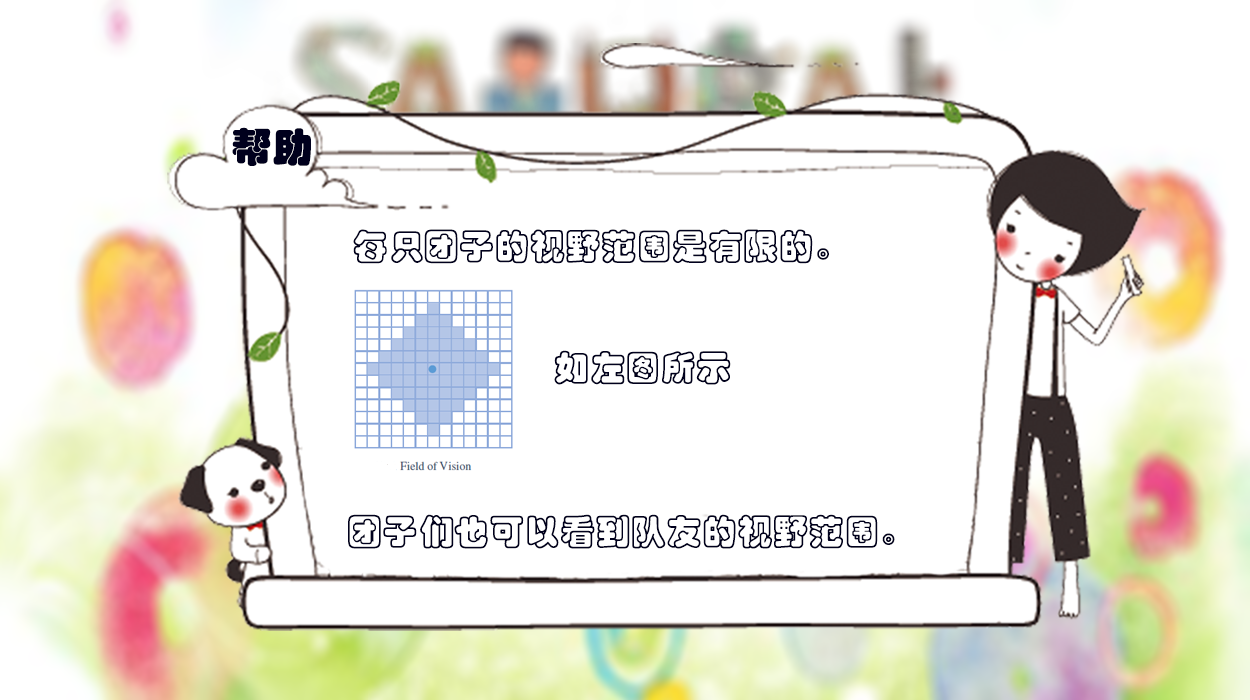
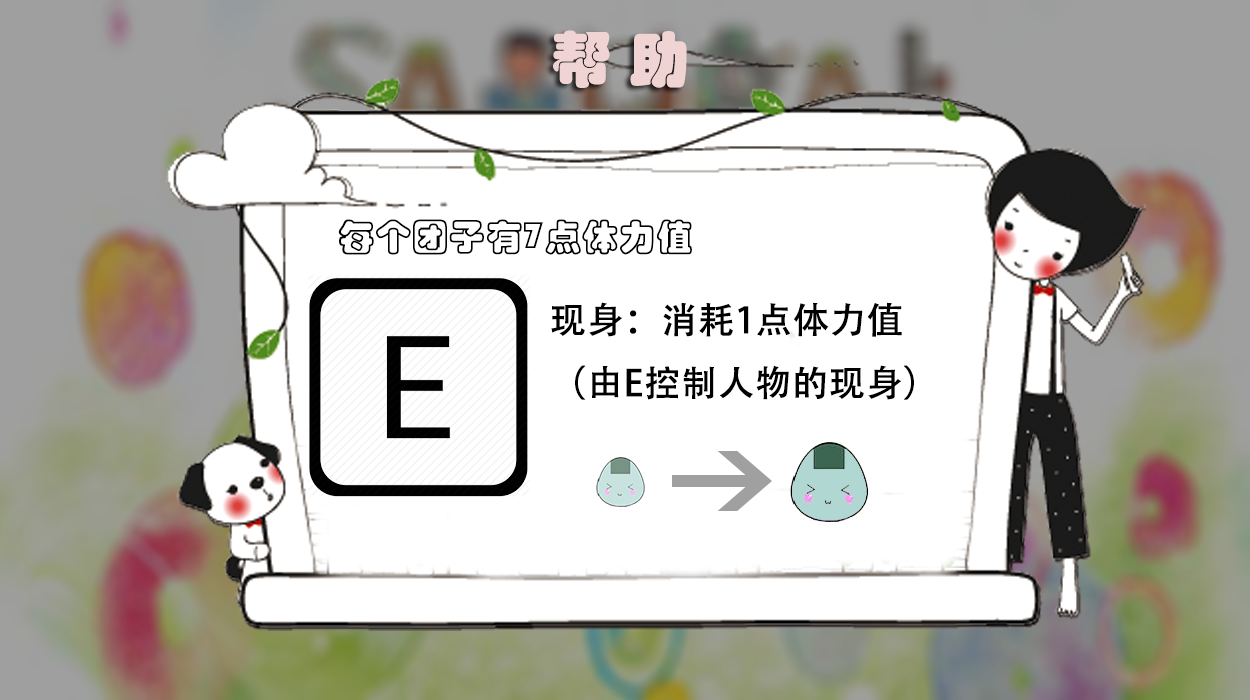
帮助界面和最后的winlosedraw
我刚刚看到帮助界面的代码还没有改就顺手改了一下

diff --git a/Samurai/src/team/csca/view/image/ImgBackground.java b/Samurai/src/team/csca/view/image/ImgBackground.java
@@ -33,6 +33,13 @@ public class ImgBackground {
 				new ImageIcon("Image/HelpPanel/backgroundhelp_page4.png").getImage(),
 				new ImageIcon("Image/HelpPanel/backgroundhelp_page5.png").getImage(),
 				new ImageIcon("Image/HelpPanel/backgroundhelp_page6.png").getImage(),
+				new ImageIcon("Image/HelpPanel/backgroundhelp_page7.png").getImage(),
+				new ImageIcon("Image/HelpPanel/backgroundhelp_page8.png").getImage(),
+				new ImageIcon("Image/HelpPanel/backgroundhelp_page9.png").getImage(),
+				new ImageIcon("Image/HelpPanel/backgroundhelp_page10.png").getImage(),
+				new ImageIcon("Image/HelpPanel/backgroundhelp_page11.png").getImage(),
+				new ImageIcon("Image/HelpPanel/backgroundhelp_page12.png").getImage(),
+				new ImageIcon("Image/HelpPanel/backgroundhelp_page13.png").getImage(),
 				};
 	}
 	

diff --git a/Samurai/src/team/csca/view/help/JPanelHelp.java b/Samurai/src/team/csca/view/help/JPanelHelp.java
@@ -9,7 +9,7 @@ import team.csca.view.image.ImgBackground;
 
 public class JPanelHelp extends JPanel{
 	
-	protected final static int LAST_INDEX = 6;
+	protected final static int LAST_INDEX = 13;
 	
 	protected int numOfPic = 0;
 	
